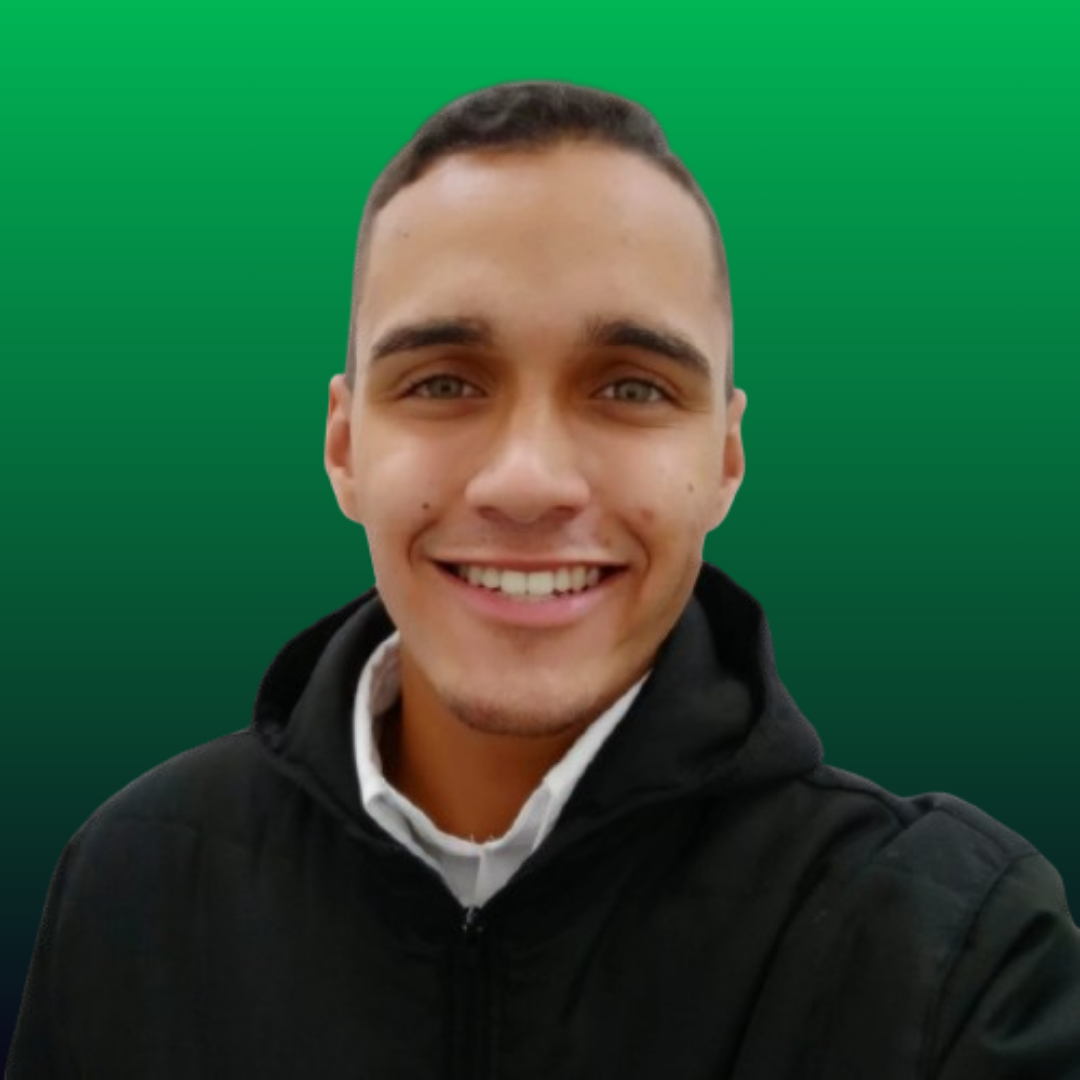
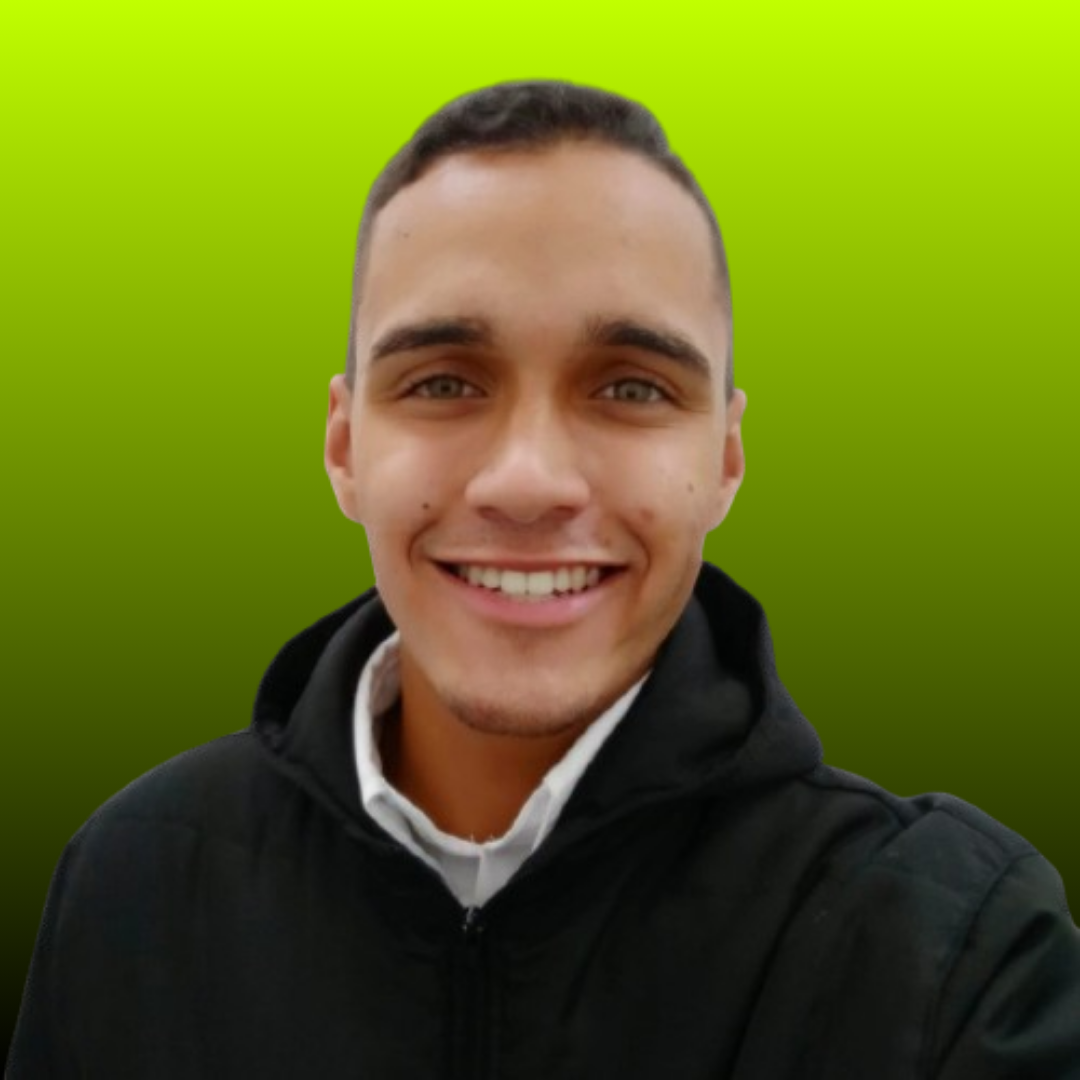
Added the new project
Removed old project and added actual project also changed the primary color.

diff --git a/index.html b/index.html
@@ -49,37 +49,52 @@
             </section>
             <div id="title_skills" class="titles" style="text-align: center;">Habilidades</div>
             <section id="skills">
-              <div>HTML</div>
-              <div>CSS</div>
-              <div>JavaScript</div>
-                <svg xmlns="http://www.w3.org/2000/svg" width="80px" viewBox="0 0 384 512"><!--!Font Awesome Free 6.5.1 by @fontawesome - https://fontawesome.com License - https://fontawesome.com/license/free Copyright 2023 Fonticons, Inc.--><path fill="#00BF63" d="M0 32l34.9 395.8L191.5 480l157.6-52.2L384 32H0zm308.2 127.9H124.4l4.1 49.4h175.6l-13.6 148.4-97.9 27v.3h-1.1l-98.7-27.3-6-75.8h47.7L138 320l53.5 14.5 53.7-14.5 6-62.2H84.3L71.5 112.2h241.1l-4.4 47.7z"/></svg>
-                <svg xmlns="http://www.w3.org/2000/svg" width="80px" viewBox="0 0 384 512"><!--!Font Awesome Free 6.5.1 by @fontawesome - https://fontawesome.com License - https://fontawesome.com/license/free Copyright 2023 Fonticons, Inc.--><path fill="#00BF63" d="M0 32l34.9 395.8L192 480l157.1-52.2L384 32H0zm313.1 80l-4.8 47.3L193 208.6l-.3 .1h111.5l-12.8 146.6-98.2 28.7-98.8-29.2-6.4-73.9h48.9l3.2 38.3 52.6 13.3 54.7-15.4 3.7-61.6-166.3-.5v-.1l-.2 .1-3.6-46.3L193.1 162l6.5-2.7H76.7L70.9 112h242.2z"/></svg>
-                <svg xmlns="http://www.w3.org/2000/svg" width="80px" viewBox="0 0 448 512"><!--!Font Awesome Free 6.5.1 by @fontawesome - https://fontawesome.com License - https://fontawesome.com/license/free Copyright 2023 Fonticons, Inc.--><path fill="#00BF63" d="M0 32v448h448V32H0zm243.8 349.4c0 43.6-25.6 63.5-62.9 63.5-33.7 0-53.2-17.4-63.2-38.5l34.3-20.7c6.6 11.7 12.6 21.6 27.1 21.6 13.8 0 22.6-5.4 22.6-26.5V237.7h42.1v143.7zm99.6 63.5c-39.1 0-64.4-18.6-76.7-43l34.3-19.8c9 14.7 20.8 25.6 41.5 25.6 17.4 0 28.6-8.7 28.6-20.8 0-14.4-11.4-19.5-30.7-28l-10.5-4.5c-30.4-12.9-50.5-29.2-50.5-63.5 0-31.6 24.1-55.6 61.6-55.6 26.8 0 46 9.3 59.8 33.7L368 290c-7.2-12.9-15-18-27.1-18-12.3 0-20.1 7.8-20.1 18 0 12.6 7.8 17.7 25.9 25.6l10.5 4.5c35.8 15.3 55.9 31 55.9 66.2 0 37.8-29.8 58.6-69.7 58.6z"/></svg>
+              <div>
+                <div>HTML</div>
+                <svg xmlns="http://www.w3.org/2000/svg" width="80px" viewBox="0 0 384 512"><!--!Font Awesome Free 6.5.1 by @fontawesome - https://fontawesome.com License - https://fontawesome.com/license/free Copyright 2023 Fonticons, Inc.--><path fill="#C1FF00" d="M0 32l34.9 395.8L191.5 480l157.6-52.2L384 32H0zm308.2 127.9H124.4l4.1 49.4h175.6l-13.6 148.4-97.9 27v.3h-1.1l-98.7-27.3-6-75.8h47.7L138 320l53.5 14.5 53.7-14.5 6-62.2H84.3L71.5 112.2h241.1l-4.4 47.7z"/></svg>  
+              </div>
+              <div>
+                <div>CSS</div>
+                <svg xmlns="http://www.w3.org/2000/svg" width="80px" viewBox="0 0 384 512"><!--!Font Awesome Free 6.5.2 by @fontawesome - https://fontawesome.com License - https://fontawesome.com/license/free Copyright 2024 Fonticons, Inc.--><path fill="#C1FF00" d="M0 32l34.9 395.8L192 480l157.1-52.2L384 32H0zm313.1 80l-4.8 47.3L193 208.6l-.3 .1h111.5l-12.8 146.6-98.2 28.7-98.8-29.2-6.4-73.9h48.9l3.2 38.3 52.6 13.3 54.7-15.4 3.7-61.6-166.3-.5v-.1l-.2 .1-3.6-46.3L193.1 162l6.5-2.7H76.7L70.9 112h242.2z"/></svg>
+              </div>
+              <div>
+                <div>JavaScript</div>
+                <svg xmlns="http://www.w3.org/2000/svg" width="80px" viewBox="0 0 448 512"><!--!Font Awesome Free 6.5.2 by @fontawesome - https://fontawesome.com License - https://fontawesome.com/license/free Copyright 2024 Fonticons, Inc.--><path fill="#C1FF00" d="M0 32v448h448V32H0zm243.8 349.4c0 43.6-25.6 63.5-62.9 63.5-33.7 0-53.2-17.4-63.2-38.5l34.3-20.7c6.6 11.7 12.6 21.6 27.1 21.6 13.8 0 22.6-5.4 22.6-26.5V237.7h42.1v143.7zm99.6 63.5c-39.1 0-64.4-18.6-76.7-43l34.3-19.8c9 14.7 20.8 25.6 41.5 25.6 17.4 0 28.6-8.7 28.6-20.8 0-14.4-11.4-19.5-30.7-28l-10.5-4.5c-30.4-12.9-50.5-29.2-50.5-63.5 0-31.6 24.1-55.6 61.6-55.6 26.8 0 46 9.3 59.8 33.7L368 290c-7.2-12.9-15-18-27.1-18-12.3 0-20.1 7.8-20.1 18 0 12.6 7.8 17.7 25.9 25.6l10.5 4.5c35.8 15.3 55.9 31 55.9 66.2 0 37.8-29.8 58.6-69.7 58.6z"/></svg>
+              </div>
+              <div>
+                <div>React</div>
+                <svg xmlns="http://www.w3.org/2000/svg" width="80px" viewBox="0 0 512 512"><!--!Font Awesome Free 6.5.2 by @fontawesome - https://fontawesome.com License - https://fontawesome.com/license/free Copyright 2024 Fonticons, Inc.--><path fill="#C1FF00" d="M418.2 177.2c-5.4-1.8-10.8-3.5-16.2-5.1 .9-3.7 1.7-7.4 2.5-11.1 12.3-59.6 4.2-107.5-23.1-123.3-26.3-15.1-69.2 .6-112.6 38.4-4.3 3.7-8.5 7.6-12.5 11.5-2.7-2.6-5.5-5.2-8.3-7.7-45.5-40.4-91.1-57.4-118.4-41.5-26.2 15.2-34 60.3-23 116.7 1.1 5.6 2.3 11.1 3.7 16.7-6.4 1.8-12.7 3.8-18.6 5.9C38.3 196.2 0 225.4 0 255.6c0 31.2 40.8 62.5 96.3 81.5 4.5 1.5 9 3 13.6 4.3-1.5 6-2.8 11.9-4 18-10.5 55.5-2.3 99.5 23.9 114.6 27 15.6 72.4-.4 116.6-39.1 3.5-3.1 7-6.3 10.5-9.7 4.4 4.3 9 8.4 13.6 12.4 42.8 36.8 85.1 51.7 111.2 36.6 27-15.6 35.8-62.9 24.4-120.5-.9-4.4-1.9-8.9-3-13.5 3.2-.9 6.3-1.9 9.4-2.9 57.7-19.1 99.5-50 99.5-81.7 0-30.3-39.4-59.7-93.8-78.4zM282.9 92.3c37.2-32.4 71.9-45.1 87.7-36 16.9 9.7 23.4 48.9 12.8 100.4-.7 3.4-1.4 6.7-2.3 10-22.2-5-44.7-8.6-67.3-10.6-13-18.6-27.2-36.4-42.6-53.1 3.9-3.7 7.7-7.2 11.7-10.7zM167.2 307.5c5.1 8.7 10.3 17.4 15.8 25.9-15.6-1.7-31.1-4.2-46.4-7.5 4.4-14.4 9.9-29.3 16.3-44.5 4.6 8.8 9.3 17.5 14.3 26.1zm-30.3-120.3c14.4-3.2 29.7-5.8 45.6-7.8-5.3 8.3-10.5 16.8-15.4 25.4-4.9 8.5-9.7 17.2-14.2 26-6.3-14.9-11.6-29.5-16-43.6zm27.4 68.9c6.6-13.8 13.8-27.3 21.4-40.6s15.8-26.2 24.4-38.9c15-1.1 30.3-1.7 45.9-1.7s31 .6 45.9 1.7c8.5 12.6 16.6 25.5 24.3 38.7s14.9 26.7 21.7 40.4c-6.7 13.8-13.9 27.4-21.6 40.8-7.6 13.3-15.7 26.2-24.2 39-14.9 1.1-30.4 1.6-46.1 1.6s-30.9-.5-45.6-1.4c-8.7-12.7-16.9-25.7-24.6-39s-14.8-26.8-21.5-40.6zm180.6 51.2c5.1-8.8 9.9-17.7 14.6-26.7 6.4 14.5 12 29.2 16.9 44.3-15.5 3.5-31.2 6.2-47 8 5.4-8.4 10.5-17 15.5-25.6zm14.4-76.5c-4.7-8.8-9.5-17.6-14.5-26.2-4.9-8.5-10-16.9-15.3-25.2 16.1 2 31.5 4.7 45.9 8-4.6 14.8-10 29.2-16.1 43.4zM256.2 118.3c10.5 11.4 20.4 23.4 29.6 35.8-19.8-.9-39.7-.9-59.5 0 9.8-12.9 19.9-24.9 29.9-35.8zM140.2 57c16.8-9.8 54.1 4.2 93.4 39 2.5 2.2 5 4.6 7.6 7-15.5 16.7-29.8 34.5-42.9 53.1-22.6 2-45 5.5-67.2 10.4-1.3-5.1-2.4-10.3-3.5-15.5-9.4-48.4-3.2-84.9 12.6-94zm-24.5 263.6c-4.2-1.2-8.3-2.5-12.4-3.9-21.3-6.7-45.5-17.3-63-31.2-10.1-7-16.9-17.8-18.8-29.9 0-18.3 31.6-41.7 77.2-57.6 5.7-2 11.5-3.8 17.3-5.5 6.8 21.7 15 43 24.5 63.6-9.6 20.9-17.9 42.5-24.8 64.5zm116.6 98c-16.5 15.1-35.6 27.1-56.4 35.3-11.1 5.3-23.9 5.8-35.3 1.3-15.9-9.2-22.5-44.5-13.5-92 1.1-5.6 2.3-11.2 3.7-16.7 22.4 4.8 45 8.1 67.9 9.8 13.2 18.7 27.7 36.6 43.2 53.4-3.2 3.1-6.4 6.1-9.6 8.9zm24.5-24.3c-10.2-11-20.4-23.2-30.3-36.3 9.6 .4 19.5 .6 29.5 .6 10.3 0 20.4-.2 30.4-.7-9.2 12.7-19.1 24.8-29.6 36.4zm130.7 30c-.9 12.2-6.9 23.6-16.5 31.3-15.9 9.2-49.8-2.8-86.4-34.2-4.2-3.6-8.4-7.5-12.7-11.5 15.3-16.9 29.4-34.8 42.2-53.6 22.9-1.9 45.7-5.4 68.2-10.5 1 4.1 1.9 8.2 2.7 12.2 4.9 21.6 5.7 44.1 2.5 66.3zm18.2-107.5c-2.8 .9-5.6 1.8-8.5 2.6-7-21.8-15.6-43.1-25.5-63.8 9.6-20.4 17.7-41.4 24.5-62.9 5.2 1.5 10.2 3.1 15 4.7 46.6 16 79.3 39.8 79.3 58 0 19.6-34.9 44.9-84.8 61.4zm-149.7-15c25.3 0 45.8-20.5 45.8-45.8s-20.5-45.8-45.8-45.8c-25.3 0-45.8 20.5-45.8 45.8s20.5 45.8 45.8 45.8z"/></svg>
+              </div>
+              <div>
+                <div>BootStrap</div>
+                <svg xmlns="http://www.w3.org/2000/svg" width="80px" viewBox="0 0 576 512"><!--!Font Awesome Free 6.5.2 by @fontawesome - https://fontawesome.com License - https://fontawesome.com/license/free Copyright 2024 Fonticons, Inc.--><path fill="#C1FF00" d="M333.5 201.4c0-22.1-15.6-34.3-43-34.3h-50.4v71.2h42.5C315.4 238.2 333.5 225 333.5 201.4zM517 188.6c-9.5-30.9-10.9-68.8-9.8-98.1c1.1-30.5-22.7-58.5-54.7-58.5H123.7c-32.1 0-55.8 28.1-54.7 58.5c1 29.3-.3 67.2-9.8 98.1c-9.6 31-25.7 50.6-52.2 53.1v28.5c26.4 2.5 42.6 22.1 52.2 53.1c9.5 30.9 10.9 68.8 9.8 98.1c-1.1 30.5 22.7 58.5 54.7 58.5h328.7c32.1 0 55.8-28.1 54.7-58.5c-1-29.3 .3-67.2 9.8-98.1c9.6-31 25.7-50.6 52.1-53.1v-28.5C542.7 239.2 526.5 219.6 517 188.6zM300.2 375.1h-97.9V136.8h97.4c43.3 0 71.7 23.4 71.7 59.4c0 25.3-19.1 47.9-43.5 51.8v1.3c33.2 3.6 55.5 26.6 55.5 58.3C383.4 349.7 352.1 375.1 300.2 375.1zM290.2 266.4h-50.1v78.4h52.3c34.2 0 52.3-13.7 52.3-39.5C344.7 279.6 326.1 266.4 290.2 266.4z"/></svg>
+              </div>
             </section>
             <section id="projects">
                 <div class="titles">Projetos</div>
                 <a href="https://barao-das-bebidas-v2.vercel.app/" target="_blank">
                     <div class="subtitles">Projeto Barão das Bebidas
                       <div style="color: var(--ter-color);">(Site de agendamento de chopps)</div></div>
-                    
                 </a>
                 <img class="imgs_projects" src="./img/img_home_site_barao_das_bebidas.png" alt="Site Barão das Bebidas">
-                <a href="https://lululu-app.vercel.app/" target="_blank">
-                    <div class="subtitles">Projeto LuLuLu App
-                      <div style="color: var(--ter-color)">(Site modelo para app de adoção de pets, criado junto ao curso Tips Code)</div></div>
-                </a>
-                <img class="imgs_projects" src="./img/img_home_site_lululu_app.png" alt="Site LuLuLu App">
             </section>
+            <section id="projects">
+              <a href="https://tipscode.com.br/curso-de-python" target="_blank">
+                  <div class="subtitles">Projeto Página Curso de Python TipsCode
+                    <div style="color: var(--ter-color);">(Site em criação junto com outros alunos do curso o qual o CEO da TipsCode irá usar para vender seu curso)</div></div>
+              </a>
+              <img class="imgs_projects" src="./img/img_home_site_python_tipscode.png" alt="Site Barão das Bebidas">
+          </section>
         </div>
     </main>
     <footer>
         <section id="contacts">
             <div class="titles">Contatos</div>
             <div class="ico_social_media">
-              <a class="icons" href="https://github.com/lucaseabsouza"><svg xmlns="http://www.w3.org/2000/svg" width="50px" viewBox="0 0 448 512"><!--!Font Awesome Free 6.5.1 by @fontawesome - https://fontawesome.com License - https://fontawesome.com/license/free Copyright 2023 Fonticons, Inc.--><path fill="#00BF63" d="M448 96c0-35.3-28.7-64-64-64H64C28.7 32 0 60.7 0 96V416c0 35.3 28.7 64 64 64H384c35.3 0 64-28.7 64-64V96zM265.8 407.7c0-1.8 0-6 .1-11.6c.1-11.4 .1-28.8 .1-43.7c0-15.6-5.2-25.5-11.3-30.7c37-4.1 76-9.2 76-73.1c0-18.2-6.5-27.3-17.1-39c1.7-4.3 7.4-22-1.7-45c-13.9-4.3-45.7 17.9-45.7 17.9c-13.2-3.7-27.5-5.6-41.6-5.6s-28.4 1.9-41.6 5.6c0 0-31.8-22.2-45.7-17.9c-9.1 22.9-3.5 40.6-1.7 45c-10.6 11.7-15.6 20.8-15.6 39c0 63.6 37.3 69 74.3 73.1c-4.8 4.3-9.1 11.7-10.6 22.3c-9.5 4.3-33.8 11.7-48.3-13.9c-9.1-15.8-25.5-17.1-25.5-17.1c-16.2-.2-1.1 10.2-1.1 10.2c10.8 5 18.4 24.2 18.4 24.2c9.7 29.7 56.1 19.7 56.1 19.7c0 9 .1 21.7 .1 30.6c0 4.8 .1 8.6 .1 10c0 4.3-3 9.5-11.5 8C106 393.6 59.8 330.8 59.8 257.4c0-91.8 70.2-161.5 162-161.5s166.2 69.7 166.2 161.5c.1 73.4-44.7 136.3-110.7 158.3c-8.4 1.5-11.5-3.7-11.5-8zm-90.5-54.8c-.2-1.5 1.1-2.8 3-3.2c1.9-.2 3.7 .6 3.9 1.9c.3 1.3-1 2.6-3 3c-1.9 .4-3.7-.4-3.9-1.7zm-9.1 3.2c-2.2 .2-3.7-.9-3.7-2.4c0-1.3 1.5-2.4 3.5-2.4c1.9-.2 3.7 .9 3.7 2.4c0 1.3-1.5 2.4-3.5 2.4zm-14.3-2.2c-1.9-.4-3.2-1.9-2.8-3.2s2.4-1.9 4.1-1.5c2 .6 3.3 2.1 2.8 3.4c-.4 1.3-2.4 1.9-4.1 1.3zm-12.5-7.3c-1.5-1.3-1.9-3.2-.9-4.1c.9-1.1 2.8-.9 4.3 .6c1.3 1.3 1.8 3.3 .9 4.1c-.9 1.1-2.8 .9-4.3-.6zm-8.5-10c-1.1-1.5-1.1-3.2 0-3.9c1.1-.9 2.8-.2 3.7 1.3c1.1 1.5 1.1 3.3 0 4.1c-.9 .6-2.6 0-3.7-1.5zm-6.3-8.8c-1.1-1.3-1.3-2.8-.4-3.5c.9-.9 2.4-.4 3.5 .6c1.1 1.3 1.3 2.8 .4 3.5c-.9 .9-2.4 .4-3.5-.6zm-6-6.4c-1.3-.6-1.9-1.7-1.5-2.6c.4-.6 1.5-.9 2.8-.4c1.3 .7 1.9 1.8 1.5 2.6c-.4 .9-1.7 1.1-2.8 .4z"/></svg></a>
-              <a class="icons" href="https://www.linkedin.com/in/lucaseabsouza/"><svg xmlns="http://www.w3.org/2000/svg" width="50px" viewBox="0 0 448 512"><!--!Font Awesome Free 6.5.1 by @fontawesome - https://fontawesome.com License - https://fontawesome.com/license/free Copyright 2023 Fonticons, Inc.--><path fill="#00BF63" d="M416 32H31.9C14.3 32 0 46.5 0 64.3v383.4C0 465.5 14.3 480 31.9 480H416c17.6 0 32-14.5 32-32.3V64.3c0-17.8-14.4-32.3-32-32.3zM135.4 416H69V202.2h66.5V416zm-33.2-243c-21.3 0-38.5-17.3-38.5-38.5S80.9 96 102.2 96c21.2 0 38.5 17.3 38.5 38.5 0 21.3-17.2 38.5-38.5 38.5zm282.1 243h-66.4V312c0-24.8-.5-56.7-34.5-56.7-34.6 0-39.9 27-39.9 54.9V416h-66.4V202.2h63.7v29.2h.9c8.9-16.8 30.6-34.5 62.9-34.5 67.2 0 79.7 44.3 79.7 101.9V416z"/></svg></a>
-              <a class="icons" href="https://wa.me/31995236051"><svg xmlns="http://www.w3.org/2000/svg" width="50px" viewBox="0 0 448 512"><!--!Font Awesome Free 6.5.1 by @fontawesome - https://fontawesome.com License - https://fontawesome.com/license/free Copyright 2023 Fonticons, Inc.--><path fill="#00BF63" d="M92.1 254.6c0 24.9 7 49.2 20.2 70.1l3.1 5-13.3 48.6L152 365.2l4.8 2.9c20.2 12 43.4 18.4 67.1 18.4h.1c72.6 0 133.3-59.1 133.3-131.8c0-35.2-15.2-68.3-40.1-93.2c-25-25-58-38.7-93.2-38.7c-72.7 0-131.8 59.1-131.9 131.8zM274.8 330c-12.6 1.9-22.4 .9-47.5-9.9c-36.8-15.9-61.8-51.5-66.9-58.7c-.4-.6-.7-.9-.8-1.1c-2-2.6-16.2-21.5-16.2-41c0-18.4 9-27.9 13.2-32.3c.3-.3 .5-.5 .7-.8c3.6-4 7.9-5 10.6-5c2.6 0 5.3 0 7.6 .1c.3 0 .5 0 .8 0c2.3 0 5.2 0 8.1 6.8c1.2 2.9 3 7.3 4.9 11.8c3.3 8 6.7 16.3 7.3 17.6c1 2 1.7 4.3 .3 6.9c-3.4 6.8-6.9 10.4-9.3 13c-3.1 3.2-4.5 4.7-2.3 8.6c15.3 26.3 30.6 35.4 53.9 47.1c4 2 6.3 1.7 8.6-1c2.3-2.6 9.9-11.6 12.5-15.5c2.6-4 5.3-3.3 8.9-2s23.1 10.9 27.1 12.9c.8 .4 1.5 .7 2.1 1c2.8 1.4 4.7 2.3 5.5 3.6c.9 1.9 .9 9.9-2.4 19.1c-3.3 9.3-19.1 17.7-26.7 18.8zM448 96c0-35.3-28.7-64-64-64H64C28.7 32 0 60.7 0 96V416c0 35.3 28.7 64 64 64H384c35.3 0 64-28.7 64-64V96zM148.1 393.9L64 416l22.5-82.2c-13.9-24-21.2-51.3-21.2-79.3C65.4 167.1 136.5 96 223.9 96c42.4 0 82.2 16.5 112.2 46.5c29.9 30 47.9 69.8 47.9 112.2c0 87.4-72.7 158.5-160.1 158.5c-26.6 0-52.7-6.7-75.8-19.3z"/></svg></a>
-              <a class="icons" href="mailto:lucaseabsouza@gmail.com"><svg xmlns="http://www.w3.org/2000/svg" width="50px" viewBox="0 0 512 512"><!--!Font Awesome Free 6.5.1 by @fontawesome - https://fontawesome.com License - https://fontawesome.com/license/free Copyright 2023 Fonticons, Inc.--><path fill="#00BF63" d="M48 64C21.5 64 0 85.5 0 112c0 15.1 7.1 29.3 19.2 38.4L236.8 313.6c11.4 8.5 27 8.5 38.4 0L492.8 150.4c12.1-9.1 19.2-23.3 19.2-38.4c0-26.5-21.5-48-48-48H48zM0 176V384c0 35.3 28.7 64 64 64H448c35.3 0 64-28.7 64-64V176L294.4 339.2c-22.8 17.1-54 17.1-76.8 0L0 176z"/></svg></a>
+              <a class="icons" href="https://github.com/lucaseabsouza"><svg xmlns="http://www.w3.org/2000/svg" width="50px" viewBox="0 0 448 512"><!--!Font Awesome Free 6.5.1 by @fontawesome - https://fontawesome.com License - https://fontawesome.com/license/free Copyright 2023 Fonticons, Inc.--><path fill="#C1FF00" d="M448 96c0-35.3-28.7-64-64-64H64C28.7 32 0 60.7 0 96V416c0 35.3 28.7 64 64 64H384c35.3 0 64-28.7 64-64V96zM265.8 407.7c0-1.8 0-6 .1-11.6c.1-11.4 .1-28.8 .1-43.7c0-15.6-5.2-25.5-11.3-30.7c37-4.1 76-9.2 76-73.1c0-18.2-6.5-27.3-17.1-39c1.7-4.3 7.4-22-1.7-45c-13.9-4.3-45.7 17.9-45.7 17.9c-13.2-3.7-27.5-5.6-41.6-5.6s-28.4 1.9-41.6 5.6c0 0-31.8-22.2-45.7-17.9c-9.1 22.9-3.5 40.6-1.7 45c-10.6 11.7-15.6 20.8-15.6 39c0 63.6 37.3 69 74.3 73.1c-4.8 4.3-9.1 11.7-10.6 22.3c-9.5 4.3-33.8 11.7-48.3-13.9c-9.1-15.8-25.5-17.1-25.5-17.1c-16.2-.2-1.1 10.2-1.1 10.2c10.8 5 18.4 24.2 18.4 24.2c9.7 29.7 56.1 19.7 56.1 19.7c0 9 .1 21.7 .1 30.6c0 4.8 .1 8.6 .1 10c0 4.3-3 9.5-11.5 8C106 393.6 59.8 330.8 59.8 257.4c0-91.8 70.2-161.5 162-161.5s166.2 69.7 166.2 161.5c.1 73.4-44.7 136.3-110.7 158.3c-8.4 1.5-11.5-3.7-11.5-8zm-90.5-54.8c-.2-1.5 1.1-2.8 3-3.2c1.9-.2 3.7 .6 3.9 1.9c.3 1.3-1 2.6-3 3c-1.9 .4-3.7-.4-3.9-1.7zm-9.1 3.2c-2.2 .2-3.7-.9-3.7-2.4c0-1.3 1.5-2.4 3.5-2.4c1.9-.2 3.7 .9 3.7 2.4c0 1.3-1.5 2.4-3.5 2.4zm-14.3-2.2c-1.9-.4-3.2-1.9-2.8-3.2s2.4-1.9 4.1-1.5c2 .6 3.3 2.1 2.8 3.4c-.4 1.3-2.4 1.9-4.1 1.3zm-12.5-7.3c-1.5-1.3-1.9-3.2-.9-4.1c.9-1.1 2.8-.9 4.3 .6c1.3 1.3 1.8 3.3 .9 4.1c-.9 1.1-2.8 .9-4.3-.6zm-8.5-10c-1.1-1.5-1.1-3.2 0-3.9c1.1-.9 2.8-.2 3.7 1.3c1.1 1.5 1.1 3.3 0 4.1c-.9 .6-2.6 0-3.7-1.5zm-6.3-8.8c-1.1-1.3-1.3-2.8-.4-3.5c.9-.9 2.4-.4 3.5 .6c1.1 1.3 1.3 2.8 .4 3.5c-.9 .9-2.4 .4-3.5-.6zm-6-6.4c-1.3-.6-1.9-1.7-1.5-2.6c.4-.6 1.5-.9 2.8-.4c1.3 .7 1.9 1.8 1.5 2.6c-.4 .9-1.7 1.1-2.8 .4z"/></svg></a>
+              <a class="icons" href="https://www.linkedin.com/in/lucaseabsouza/"><svg xmlns="http://www.w3.org/2000/svg" width="50px" viewBox="0 0 448 512"><!--!Font Awesome Free 6.5.1 by @fontawesome - https://fontawesome.com License - https://fontawesome.com/license/free Copyright 2023 Fonticons, Inc.--><path fill="#C1FF00" d="M416 32H31.9C14.3 32 0 46.5 0 64.3v383.4C0 465.5 14.3 480 31.9 480H416c17.6 0 32-14.5 32-32.3V64.3c0-17.8-14.4-32.3-32-32.3zM135.4 416H69V202.2h66.5V416zm-33.2-243c-21.3 0-38.5-17.3-38.5-38.5S80.9 96 102.2 96c21.2 0 38.5 17.3 38.5 38.5 0 21.3-17.2 38.5-38.5 38.5zm282.1 243h-66.4V312c0-24.8-.5-56.7-34.5-56.7-34.6 0-39.9 27-39.9 54.9V416h-66.4V202.2h63.7v29.2h.9c8.9-16.8 30.6-34.5 62.9-34.5 67.2 0 79.7 44.3 79.7 101.9V416z"/></svg></a>
+              <a class="icons" href="https://wa.me/31995236051"><svg xmlns="http://www.w3.org/2000/svg" width="50px" viewBox="0 0 448 512"><!--!Font Awesome Free 6.5.1 by @fontawesome - https://fontawesome.com License - https://fontawesome.com/license/free Copyright 2023 Fonticons, Inc.--><path fill="#C1FF00" d="M92.1 254.6c0 24.9 7 49.2 20.2 70.1l3.1 5-13.3 48.6L152 365.2l4.8 2.9c20.2 12 43.4 18.4 67.1 18.4h.1c72.6 0 133.3-59.1 133.3-131.8c0-35.2-15.2-68.3-40.1-93.2c-25-25-58-38.7-93.2-38.7c-72.7 0-131.8 59.1-131.9 131.8zM274.8 330c-12.6 1.9-22.4 .9-47.5-9.9c-36.8-15.9-61.8-51.5-66.9-58.7c-.4-.6-.7-.9-.8-1.1c-2-2.6-16.2-21.5-16.2-41c0-18.4 9-27.9 13.2-32.3c.3-.3 .5-.5 .7-.8c3.6-4 7.9-5 10.6-5c2.6 0 5.3 0 7.6 .1c.3 0 .5 0 .8 0c2.3 0 5.2 0 8.1 6.8c1.2 2.9 3 7.3 4.9 11.8c3.3 8 6.7 16.3 7.3 17.6c1 2 1.7 4.3 .3 6.9c-3.4 6.8-6.9 10.4-9.3 13c-3.1 3.2-4.5 4.7-2.3 8.6c15.3 26.3 30.6 35.4 53.9 47.1c4 2 6.3 1.7 8.6-1c2.3-2.6 9.9-11.6 12.5-15.5c2.6-4 5.3-3.3 8.9-2s23.1 10.9 27.1 12.9c.8 .4 1.5 .7 2.1 1c2.8 1.4 4.7 2.3 5.5 3.6c.9 1.9 .9 9.9-2.4 19.1c-3.3 9.3-19.1 17.7-26.7 18.8zM448 96c0-35.3-28.7-64-64-64H64C28.7 32 0 60.7 0 96V416c0 35.3 28.7 64 64 64H384c35.3 0 64-28.7 64-64V96zM148.1 393.9L64 416l22.5-82.2c-13.9-24-21.2-51.3-21.2-79.3C65.4 167.1 136.5 96 223.9 96c42.4 0 82.2 16.5 112.2 46.5c29.9 30 47.9 69.8 47.9 112.2c0 87.4-72.7 158.5-160.1 158.5c-26.6 0-52.7-6.7-75.8-19.3z"/></svg></a>
+              <a class="icons" href="mailto:lucaseabsouza@gmail.com"><svg xmlns="http://www.w3.org/2000/svg" width="50px" viewBox="0 0 512 512"><!--!Font Awesome Free 6.5.1 by @fontawesome - https://fontawesome.com License - https://fontawesome.com/license/free Copyright 2023 Fonticons, Inc.--><path fill="#C1FF00" d="M48 64C21.5 64 0 85.5 0 112c0 15.1 7.1 29.3 19.2 38.4L236.8 313.6c11.4 8.5 27 8.5 38.4 0L492.8 150.4c12.1-9.1 19.2-23.3 19.2-38.4c0-26.5-21.5-48-48-48H48zM0 176V384c0 35.3 28.7 64 64 64H448c35.3 0 64-28.7 64-64V176L294.4 339.2c-22.8 17.1-54 17.1-76.8 0L0 176z"/></svg></a>
             </div>
         </section>
     </footer>

diff --git a/css/style.css b/css/style.css
@@ -1,10 +1,10 @@
 /*Compound css*/
 :root{
-    --main-color: #00BF63;
+    --main-color: #C1FF00;
     --sec-color: #131313;
     --ter-color: #f1f1f1;
     --four-color: rgb(128, 128, 128);
-    --hover-main-color: #03723c;
+    --hover-main-color: #4bb102;
 }
 
 ol, ul {
@@ -73,16 +73,21 @@ header{
 /*Skills Section*/
 
 #skills{
-    display: grid;
-    grid-template-columns: 1fr 1fr 1fr;
-    grid-template-rows: 20% 80%;
-    justify-items: center;
+    text-align: center;
+    display: flex;
+    flex-direction: row;
+    flex-wrap: wrap;
+    align-items: center;
     justify-content: center;
     margin: 2%;
 }
 
 #skills div{
     color: var(--ter-color);
+}
+
+#skills svg{
+    margin: 20px;
 }
 
 /*Projects Section*/
@@ -106,7 +111,7 @@ header{
 /*Projects Section*/
 
 .imgs_projects{
-    margin-bottom: 1%;
+    margin-bottom: 10%;
     width: 80%;
     align-self: center;
     border-radius: 0.5rem;
